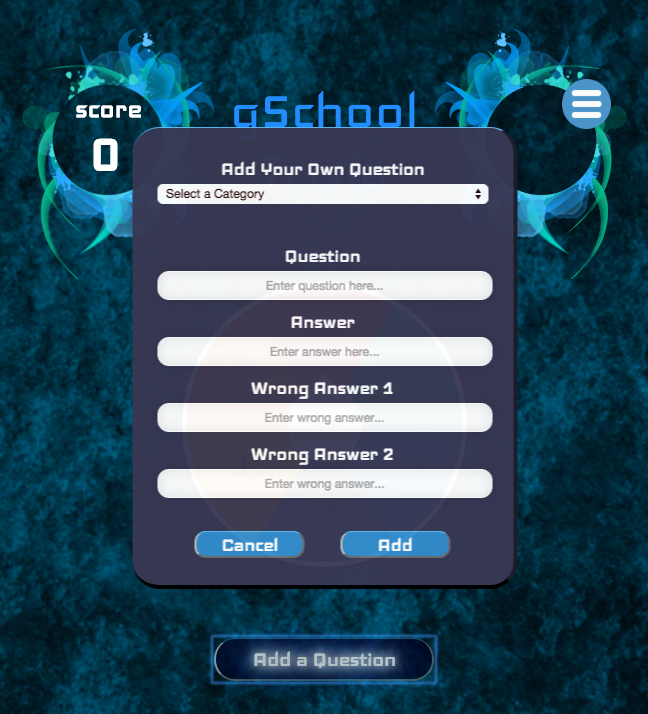
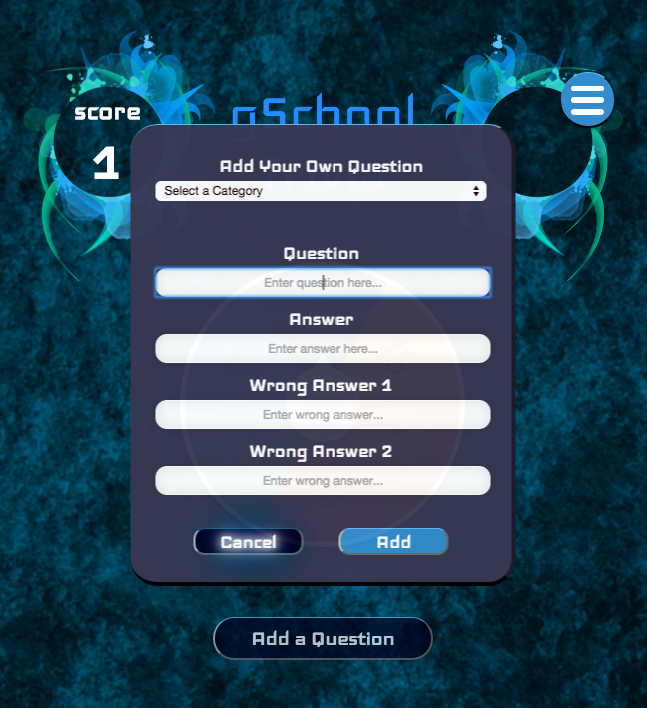
updated pics for README.md

diff --git a/client/css/menu.css b/client/css/menu.css
@@ -11,7 +11,7 @@ a {
   position: relative;
   top: 60px;
   left: 22px;
-  background: #228DFF;
+  background: #338ccc;
   width: 48px;
   height: 48px;
   border-radius: 50%;
